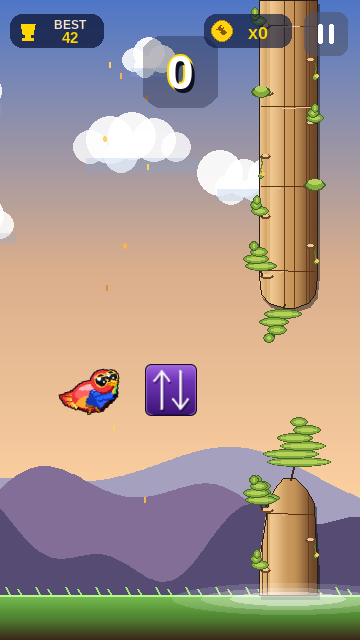
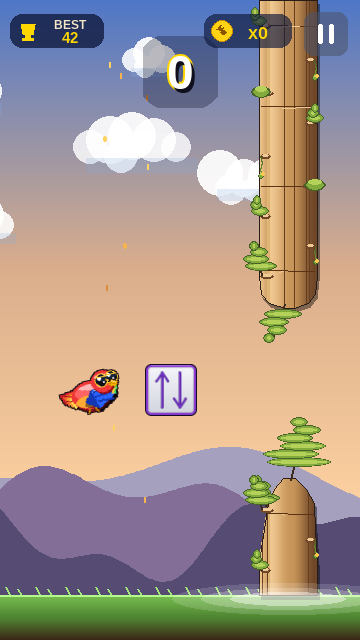
Reverse power-up: light-gray panel inside the purple frame
Replace the deep purple gradient panel with a soft light-gray inner
panel (subtle top→bottom gradient + 1-px inner shadow under the frame
for recessed depth) and switch the arrows back to clean purple
monoline chevrons with a thin darker outline pass. Frame stroke
trimmed to 2 px for a more refined, less heavy silhouette. Reads as a
polished UI badge at every size.

Changed region(s): [[0.3972, 0.5625, 0.55, 0.6562]]

diff --git a/game/entities.py b/game/entities.py
@@ -200,125 +200,109 @@ _REVERSE_ICON_CACHE: "dict[int, pygame.Surface]" = {}
 
 
 def _build_reverse_icon(out_diameter: int) -> pygame.Surface:
-    """Premium app-icon-style: rounded purple panel with a vertical gradient
-    and a thin top-highlight rim, plus two clean monoline white chevrons
-    (up + down) with a soft drop shadow. Built at 4x super-sampling and
-    smoothscaled down for crisp edges."""
+    """Premium icon: a rounded purple frame around a light-gray panel with
+    two clean purple monoline chevrons (up + down). Built at 4x super-
+    sampling and smoothscaled down for crisp edges on any background."""
     SS = 4
     size = out_diameter * SS
     surf = pygame.Surface((size, size), pygame.SRCALPHA)
-    cx = cy = size // 2
 
-    # ── Panel palette ───────────────────────────────────────────────────
-    PANEL_HI    = (138, 70, 215)     # top of gradient (lit)
-    PANEL_LO    = (60, 20, 115)      # bottom (shaded)
-    RIM_HI      = (200, 155, 245)    # top inner highlight rim
-    RIM_LO      = (35, 10, 70)       # bottom inner shadow rim
-    OUTLINE     = (15, 5, 35)        # outer definition outline
-    ARROW_COL   = (250, 245, 255)    # crisp off-white
-    SHADOW      = (0, 0, 0, 110)     # arrow drop shadow
+    # ── Palette ─────────────────────────────────────────────────────────
+    OUTLINE      = (15, 5, 35)         # outer hairline, definition on any bg
+    FRAME        = (140, 60, 215)      # the purple perimeter
+    FRAME_HL     = (215, 165, 250)     # tiny top-edge highlight
+    PANEL_HI     = (245, 246, 250)     # gray panel — lit top
+    PANEL_LO     = (212, 214, 224)     # gray panel — slightly shaded bottom
+    INSET_SHADOW = (0, 0, 0, 38)       # soft inner shadow under the frame
+    ARROW        = (118, 52, 200)      # purple arrow body
+    ARROW_DK     = (62, 22, 130)       # arrow shadow / outline mix
 
-    radius     = SS * 6
-    outline_t  = SS                  # outer dark outline (1 final-px)
-    inset      = SS                  # margin from surface edge
+    radius   = SS * 6
+    inset    = SS                     # 1-px outer outline gap
+    frame_t  = SS * 2                 # frame stroke = 2 final-px (clean & thin)
 
     panel = pygame.Rect(inset, inset, size - inset * 2, size - inset * 2)
 
-    # ── 1. Outer dark outline (definition on any background) ───────────
+    # 1) Outer 1-px dark outline so the icon reads on any background.
     pygame.draw.rect(surf, OUTLINE, panel, border_radius=radius)
 
-    # ── 2. Gradient fill panel (one step inside the outline) ──────────
-    gradient_rect = panel.inflate(-outline_t * 2, -outline_t * 2)
+    # 2) Solid purple frame fill (will be partly covered by gray panel).
+    pygame.draw.rect(surf, FRAME, panel.inflate(-SS * 2, -SS * 2),
+                     border_radius=radius - SS)
+
+    # 3) Light-gray inner panel with a subtle vertical gradient.
+    inner = panel.inflate(-(frame_t + SS) * 2, -(frame_t + SS) * 2)
+    inner_radius = max(2, radius - frame_t - SS)
     grad_surf = pygame.Surface((size, size), pygame.SRCALPHA)
-    g_y0, g_y1 = gradient_rect.top, gradient_rect.bottom
-    for y in range(g_y0, g_y1 + 1):
-        t = (y - g_y0) / max(1, (g_y1 - g_y0))
+    g0, g1 = inner.top, inner.bottom
+    for y in range(g0, g1 + 1):
+        t = (y - g0) / max(1, (g1 - g0))
         col = (
             int(PANEL_HI[0] + (PANEL_LO[0] - PANEL_HI[0]) * t),
             int(PANEL_HI[1] + (PANEL_LO[1] - PANEL_HI[1]) * t),
             int(PANEL_HI[2] + (PANEL_LO[2] - PANEL_HI[2]) * t),
         )
         pygame.draw.line(grad_surf, col, (0, y), (size, y))
-    # Mask the gradient strip to the rounded panel shape.
-    mask = pygame.Surface((size, size), pygame.SRCALPHA)
-    pygame.draw.rect(mask, (255, 255, 255, 255), gradient_rect,
-                     border_radius=max(1, radius - outline_t))
-    grad_surf.blit(mask, (0, 0), special_flags=pygame.BLEND_RGBA_MULT)
+    inner_mask = pygame.Surface((size, size), pygame.SRCALPHA)
+    pygame.draw.rect(inner_mask, (255, 255, 255, 255), inner,
+                     border_radius=inner_radius)
+    grad_surf.blit(inner_mask, (0, 0), special_flags=pygame.BLEND_RGBA_MULT)
     surf.blit(grad_surf, (0, 0))
 
-    # ── 3. Inner top highlight rim (1px lighter line just inside top) ─
-    rim_rect = gradient_rect.inflate(-SS, -SS)
-    pygame.draw.rect(surf, RIM_HI, rim_rect,
-                     border_radius=max(1, radius - outline_t - SS // 2),
-                     width=SS // 2 if SS // 2 > 0 else 1)
-    # Override the lower half of that rim with a darker shadow line so the
-    # highlight reads as "lit from above". Done by drawing a clipped line
-    # along the bottom edge.
-    bot_y = rim_rect.bottom - SS // 2
-    pygame.draw.line(surf, RIM_LO,
-                     (rim_rect.left + radius, bot_y),
-                     (rim_rect.right - radius, bot_y),
+    # 4) Soft inner shadow inside the gray panel — gives the gray a
+    #    recessed feel under the frame.
+    shadow_surf = pygame.Surface((size, size), pygame.SRCALPHA)
+    pygame.draw.rect(shadow_surf, INSET_SHADOW, inner,
+                     border_radius=inner_radius, width=SS)
+    surf.blit(shadow_surf, (0, 0))
+
+    # 5) Tiny lighter highlight along the very top edge of the frame —
+    #    sells the "lit from above" depth.
+    pygame.draw.line(surf, FRAME_HL,
+                     (panel.left + radius, panel.top + SS),
+                     (panel.right - radius, panel.top + SS),
                      max(1, SS // 2))
 
-    # ── 4. Soft inner top-edge gloss (subtle gradient overlay) ────────
-    gloss = pygame.Surface((size, size), pygame.SRCALPHA)
-    gloss_rect = gradient_rect.inflate(-SS * 2, -SS * 2)
-    gloss_h = gloss_rect.height // 3
-    for i in range(gloss_h):
-        a = int(45 * (1 - i / gloss_h) ** 1.6)
-        if a <= 0:
-            continue
-        pygame.draw.line(gloss, (255, 255, 255, a),
-                         (gloss_rect.left, gloss_rect.top + i),
-                         (gloss_rect.right, gloss_rect.top + i))
-    gloss.blit(mask, (0, 0), special_flags=pygame.BLEND_RGBA_MULT)
-    surf.blit(gloss, (0, 0))
+    # ── Arrows: clean purple monoline chevrons ─────────────────────────
+    pad_x = max(SS * 5, panel.width // 6)
+    pad_y = max(SS * 5, panel.height // 6)
+    arrow_area = panel.inflate(-pad_x * 2, -pad_y * 2)
 
-    # ── 5. Arrows: clean monoline chevrons in white ───────────────────
-    # Geometry — use the panel inner area, with healthy padding.
-    pad_x = max(SS * 4, panel.width // 7)
-    pad_y = max(SS * 4, panel.height // 7)
-    inner = panel.inflate(-pad_x * 2, -pad_y * 2)
+    col_w = arrow_area.width // 2
+    lx = arrow_area.left + col_w // 2
+    rx = arrow_area.right - col_w // 2
+    stroke = max(SS * 2, arrow_area.height // 13)
+    head_w = max(SS * 4, arrow_area.width // 6)
+    head_h = max(SS * 4, arrow_area.height // 4)
 
-    # Two columns: up-arrow on left, down-arrow on right.
-    col_w  = inner.width // 2
-    lx     = inner.left + col_w // 2
-    rx     = inner.right - col_w // 2
-
-    # Stroke widths.
-    stroke = max(SS * 2, inner.height // 14)         # shaft thickness
-    head_w = max(SS * 5, inner.width // 5)           # half-width of arrow head
-    head_h = max(SS * 5, inner.height // 4)          # head height
-
-    def _arrow_lines(target, col_x, *, point_up, color, offset=(0, 0)):
-        ox, oy = offset
+    def _arrow(target, col_x, *, point_up, color):
         if point_up:
-            tip = (col_x + ox, inner.top + oy)
-            tail = (col_x + ox, inner.bottom + oy)
-            wing_y = inner.top + head_h + oy
+            tip  = (col_x, arrow_area.top)
+            tail = (col_x, arrow_area.bottom)
+            wing_y = arrow_area.top + head_h
         else:
-            tip = (col_x + ox, inner.bottom + oy)
-            tail = (col_x + ox, inner.top + oy)
-            wing_y = inner.bottom - head_h + oy
-        wl = (col_x - head_w + ox, wing_y)
-        wr = (col_x + head_w + ox, wing_y)
+            tip  = (col_x, arrow_area.bottom)
+            tail = (col_x, arrow_area.top)
+            wing_y = arrow_area.bottom - head_h
+        wl = (col_x - head_w, wing_y)
+        wr = (col_x + head_w, wing_y)
         pygame.draw.line(target, color, tail, tip, stroke)
         pygame.draw.line(target, color, tip, wl, stroke)
         pygame.draw.line(target, color, tip, wr, stroke)
+        # Round caps so the strokes don't look chopped at small sizes.
         for p in (tail, wl, wr, tip):
             pygame.draw.circle(target, color, p, stroke // 2)
 
-    # Drop shadow on a separate alpha surface so it composites with alpha.
-    shadow_surf = pygame.Surface((size, size), pygame.SRCALPHA)
-    _arrow_lines(shadow_surf, lx, point_up=True,
-                 color=SHADOW, offset=(SS, SS * 2))
-    _arrow_lines(shadow_surf, rx, point_up=False,
-                 color=SHADOW, offset=(SS, SS * 2))
-    surf.blit(shadow_surf, (0, 0))
-
-    # Arrows on top.
-    _arrow_lines(surf, lx, point_up=True,  color=ARROW_COL)
-    _arrow_lines(surf, rx, point_up=False, color=ARROW_COL)
+    # Subtle dark outline pass under the arrow (1-px wider) for definition.
+    _arrow(surf, lx, point_up=True,  color=ARROW_DK)
+    _arrow(surf, rx, point_up=False, color=ARROW_DK)
+    # Re-draw the arrows slightly thinner on top in the main purple so the
+    # outline shows as a thin ring around the body.
+    saved_stroke = stroke
+    stroke = max(2, stroke - SS)
+    _arrow(surf, lx, point_up=True,  color=ARROW)
+    _arrow(surf, rx, point_up=False, color=ARROW)
+    stroke = saved_stroke
 
     return pygame.transform.smoothscale(surf, (out_diameter, out_diameter))
 
